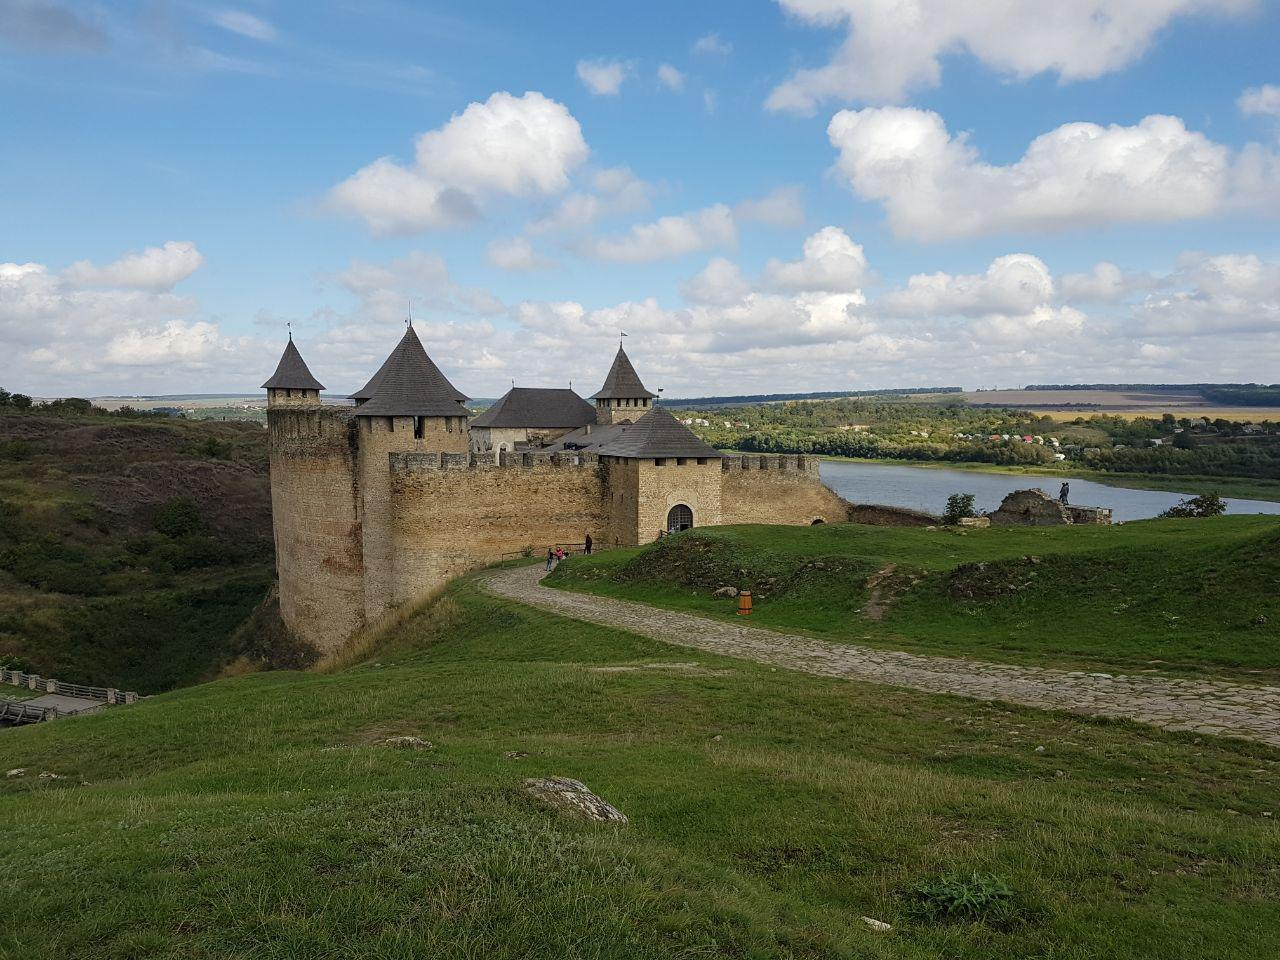
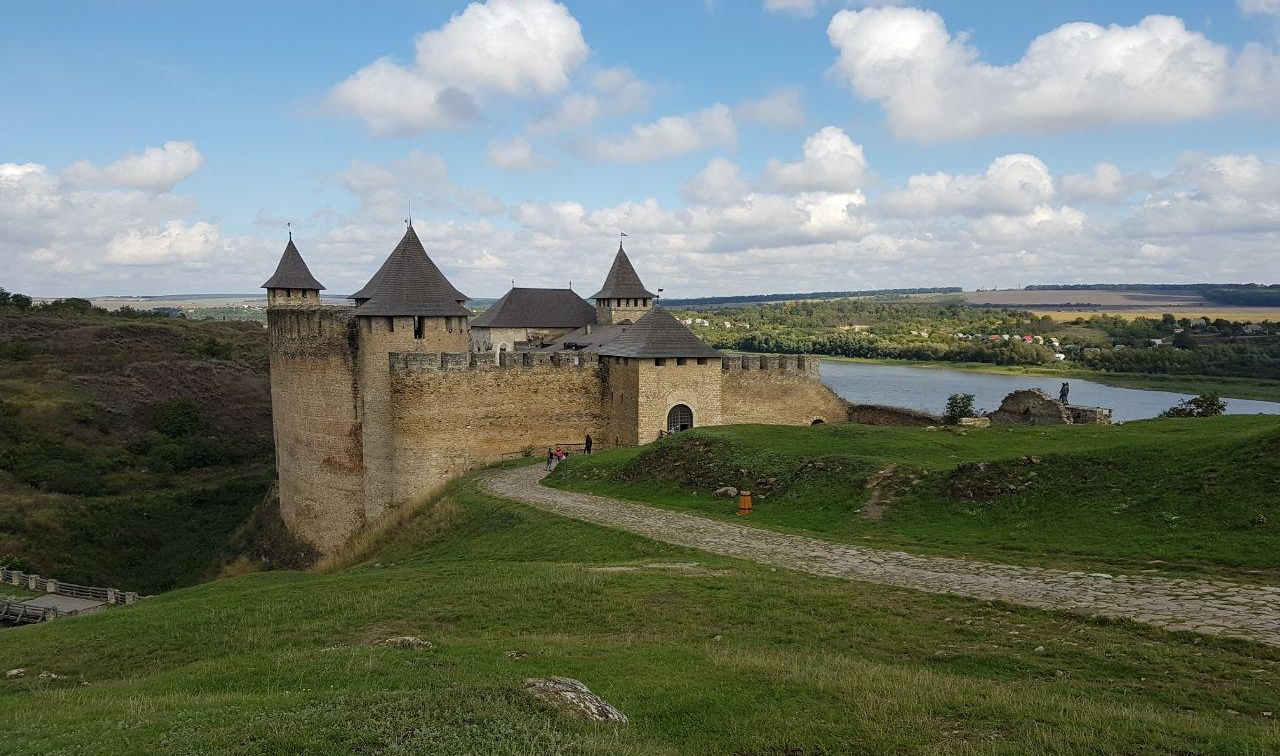
feat: change style

diff --git a/index.html b/index.html
@@ -2,29 +2,48 @@
 <html lang="en">
   <head>
     <meta charset="UTF-8" />
-    <meta
-      name="viewport"
-      content="width=device-width, initial-scale=1.0"
-    />
+    <meta name="viewport" content="width=device-width, initial-scale=1.0" />
     <meta http-equiv="X-UA-Compatible" content="ie=edge" />
-    <title>ermondel github</title>
+    <title>Web developer Serhii</title>
+    <link rel="icon" type="image/png" href="favicon.png" />
     <link rel="stylesheet" href="./normalize.css" />
+    <link href="https://fonts.googleapis.com/css?family=Roboto:400,100,300,700&subset=latin,latin-ext" rel="stylesheet" type="text/css" />
     <style>
       body {
-        background: url('./Kamianets.jpg');
-        font-family: Arial, Helvetica, sans-serif;
+        font-family: roboto, Arial, Helvetica, sans-serif;
       }
-      header {
-        background-color: dimgrey;
-        color: white;
-        opacity: 0.4;
-        padding: 1%;
+      main {
+        max-width: 960px;
+        margin: 0 auto;
+      }
+      img {
+        width: 100%;
+        height: auto;
+        border-bottom-right-radius: 650px 250px;
+        border-bottom-left-radius: 10px 10px;
+      }
+      div {
+        text-align: right;
+        color: LightSlateGray;
+        position: relative;
+        font-size: x-large;
+        font-weight: 300;
+        top: -120px;
+        margin-right: 2%;
+      }
+      address {
+        font-style: normal;
       }
     </style>
   </head>
   <body>
-    <header>
-      Serhii. Web developer. Ukraine.
-    </header>
+    <main>
+      <img src="Kamianets.jpg" alt="Photo of a medieval castle" />
+      <div>
+        <p>Serhii</p>
+        <p>Web developer</p>
+        <address>Ukraine, Kiev</address>
+      </div>
+    </main>
   </body>
 </html>
